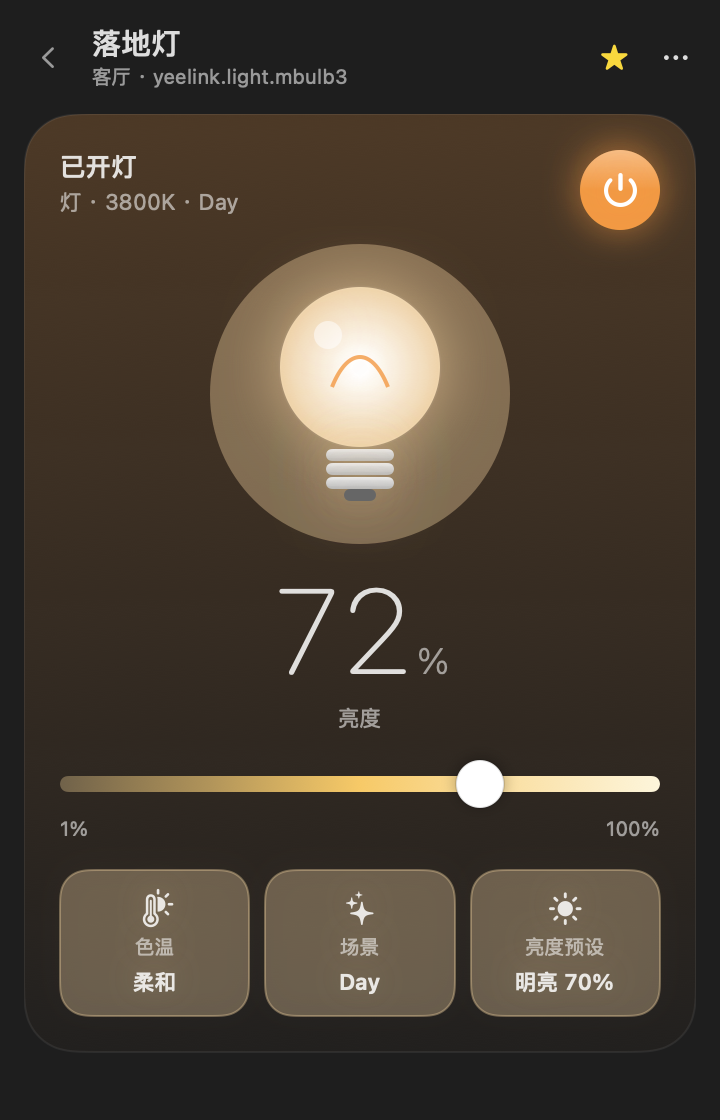
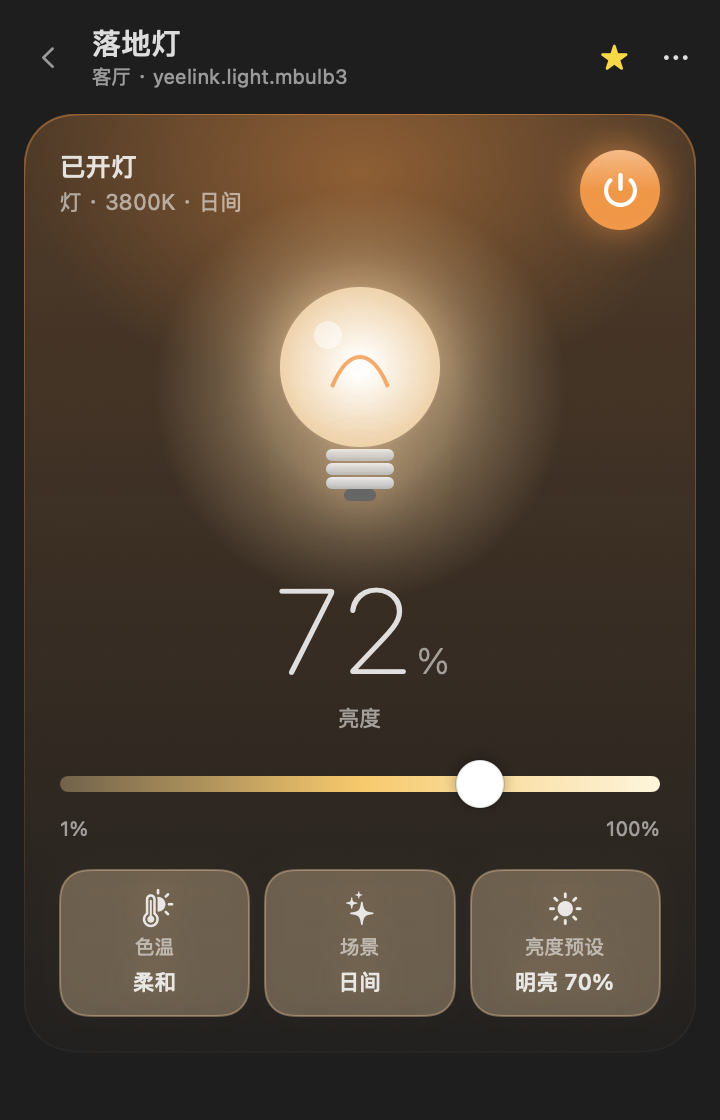
Fix fan head position and glow rendering; translate light Day/Night
- FanArt used rotation3DEffect for oscillation, which draws the fan head
  in the top-left corner in --snapshot output (the committed fan-*.png
  README screenshots show it covering the card header). Use a horizontal
  squash instead, which reads the same and renders everywhere
- Replace .blur glows (bulb halo, hero disc and light halo) with an
  equivalent radial-gradient Glow helper. .blur renders as a hard-edged
  disc in snapshots, and HeroView re-blurred on every animation frame
- trValue: translate "Day"/"Night" light modes
- Regenerate fan-*.png and light-*.png

Changed region(s): [[0.1833, 0.0938, 0.825, 0.5312], [0.4583, 0.8438, 0.5194, 0.9062]]

diff --git a/Sources/MijiaBarApp/Art.swift b/Sources/MijiaBarApp/Art.swift
@@ -6,6 +6,20 @@ import MijiaCore
 private let metal = LinearGradient(colors: [Color(white: 0.92), Color(white: 0.72)], startPoint: .top, endPoint: .bottom)
 private let darkBody = LinearGradient(colors: [Color(white: 0.30), Color(white: 0.12)], startPoint: .top, endPoint: .bottom)
 
+/// 柔和光晕：直径 diameter 的圆向外羽化 softness，效果接近 `.blur(radius: softness)`。
+/// 用径向渐变而不是 `.blur`：截图（cacheDisplay）画不出模糊，且在 TimelineView 里每帧模糊开销很大。
+/// 只占 diameter 的布局尺寸，羽化部分画在外面。
+func Glow(_ color: Color, _ opacity: Double, diameter d: CGFloat, softness s: CGFloat) -> some View {
+    let r = d / 2 + s
+    let solid = max(0, (d / 2 - s) / r)
+    return Color.clear.frame(width: d, height: d).overlay(
+        Circle().fill(RadialGradient(gradient: Gradient(stops: [.init(color: color.opacity(opacity), location: 0),
+                                                                .init(color: color.opacity(opacity), location: solid),
+                                                                .init(color: color.opacity(0), location: 1)]),
+                                     center: .center, startRadius: 0, endRadius: r))
+            .frame(width: 2 * r, height: 2 * r))
+}
+
 /// 落地扇：叶片转速跟随风速，摆头时左右摇摆
 struct FanArt: View {
     let on: Bool, level: Double, swing: Bool, tint: Color
@@ -36,7 +50,7 @@ struct FanArt: View {
                     Circle().fill(metal).frame(width: 16, height: 16).shadow(radius: 1)
                 }
                 .frame(width: 92, height: 92)
-                .rotation3DEffect(.degrees(yaw), axis: (x: 0, y: 1, z: 0), perspective: 0.6)
+                .scaleEffect(x: cos(yaw * .pi / 180), y: 1)   // 用水平压缩模拟摆头（rotation3DEffect 在截图里位置会错）
                 .offset(y: -18)
             }
             .frame(width: 140, height: 136)
@@ -51,7 +65,7 @@ struct BulbArt: View {
     var body: some View {
         let col = kelvinColor(kelvin ?? 3500)
         ZStack {
-            Circle().fill(col.opacity(on ? 0.55 * brightness : 0)).frame(width: 150, height: 150).blur(radius: 28)
+            Glow(col, on ? 0.55 * brightness : 0, diameter: 150, softness: 28)
             VStack(spacing: 0) {
                 ZStack {
                     Circle().fill(on ? AnyShapeStyle(RadialGradient(colors: [Color.white, col], center: .center, startRadius: 4, endRadius: 46))

diff --git a/Sources/MijiaBarApp/CardViews.swift b/Sources/MijiaBarApp/CardViews.swift
@@ -314,10 +314,9 @@ struct HeroView: View {
         TimelineView(.animation(paused: !isOn || !animated)) { tl in
             let t = tl.date.timeIntervalSinceReferenceDate
             ZStack {
-                Circle().fill(tint.opacity(isOn ? 0.10 + 0.18 * level : 0.05)).frame(width: 96, height: 96)
-                    .blur(radius: isOn ? 6 : 0)
+                Glow(tint, isOn ? 0.10 + 0.18 * level : 0.05, diameter: 96, softness: isOn ? 6 : 0)
                 if isOn && category == .light {
-                    Circle().fill(tint.opacity(0.25 * level)).frame(width: 96 + 40 * level, height: 96 + 40 * level).blur(radius: 18)
+                    Glow(tint, 0.25 * level, diameter: 96 + 40 * level, softness: 18)
                 }
                 Circle().fill(Color(nsColor: .controlBackgroundColor)).frame(width: 74, height: 74)
                     .overlay(Circle().stroke(tint.opacity(isOn ? 0.45 : 0.15), lineWidth: 1.5))

diff --git a/Sources/MijiaCore/AC.swift b/Sources/MijiaCore/AC.swift
@@ -14,7 +14,7 @@ public func trValue(_ en: String) -> String {
              "keepwarm": "保温", "keep warm": "保温", "lighting": "照明", "night light": "夜灯", "tv": "电视", "warmth": "暖光", "ct": "色温",
              "normal": "正常", "non existent": "未插卡", "full": "已满", "formatting": "格式化中", "ejected": "已弹出", "fixing": "修复中",
              "no record": "不录制", "motion record": "移动时录制", "all record": "一直录制", "single cycle": "单曲循环", "no faults": "无故障",
-             "over temperature": "过热", "overload": "过载", "delay": "延迟"]
+             "over temperature": "过热", "overload": "过载", "delay": "延迟", "day": "日间", "night": "夜间"]
     return m[en.lowercased()].map { L($0, $0) } ?? en
 }
 
